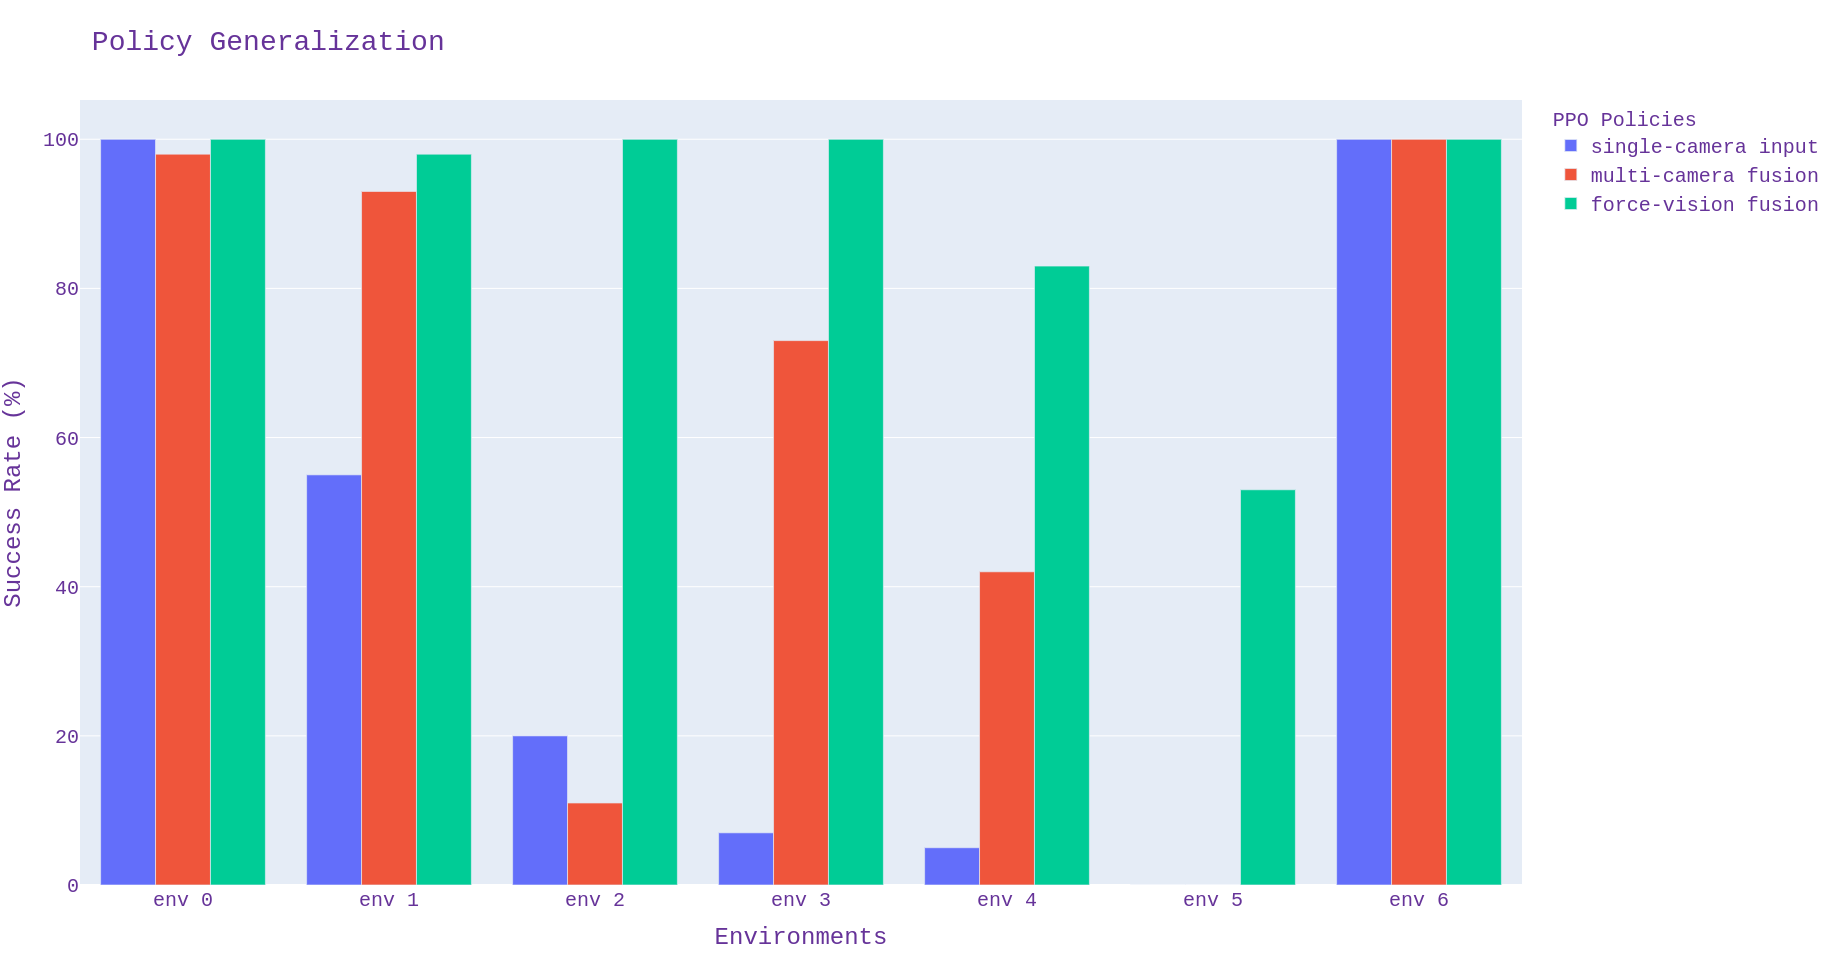
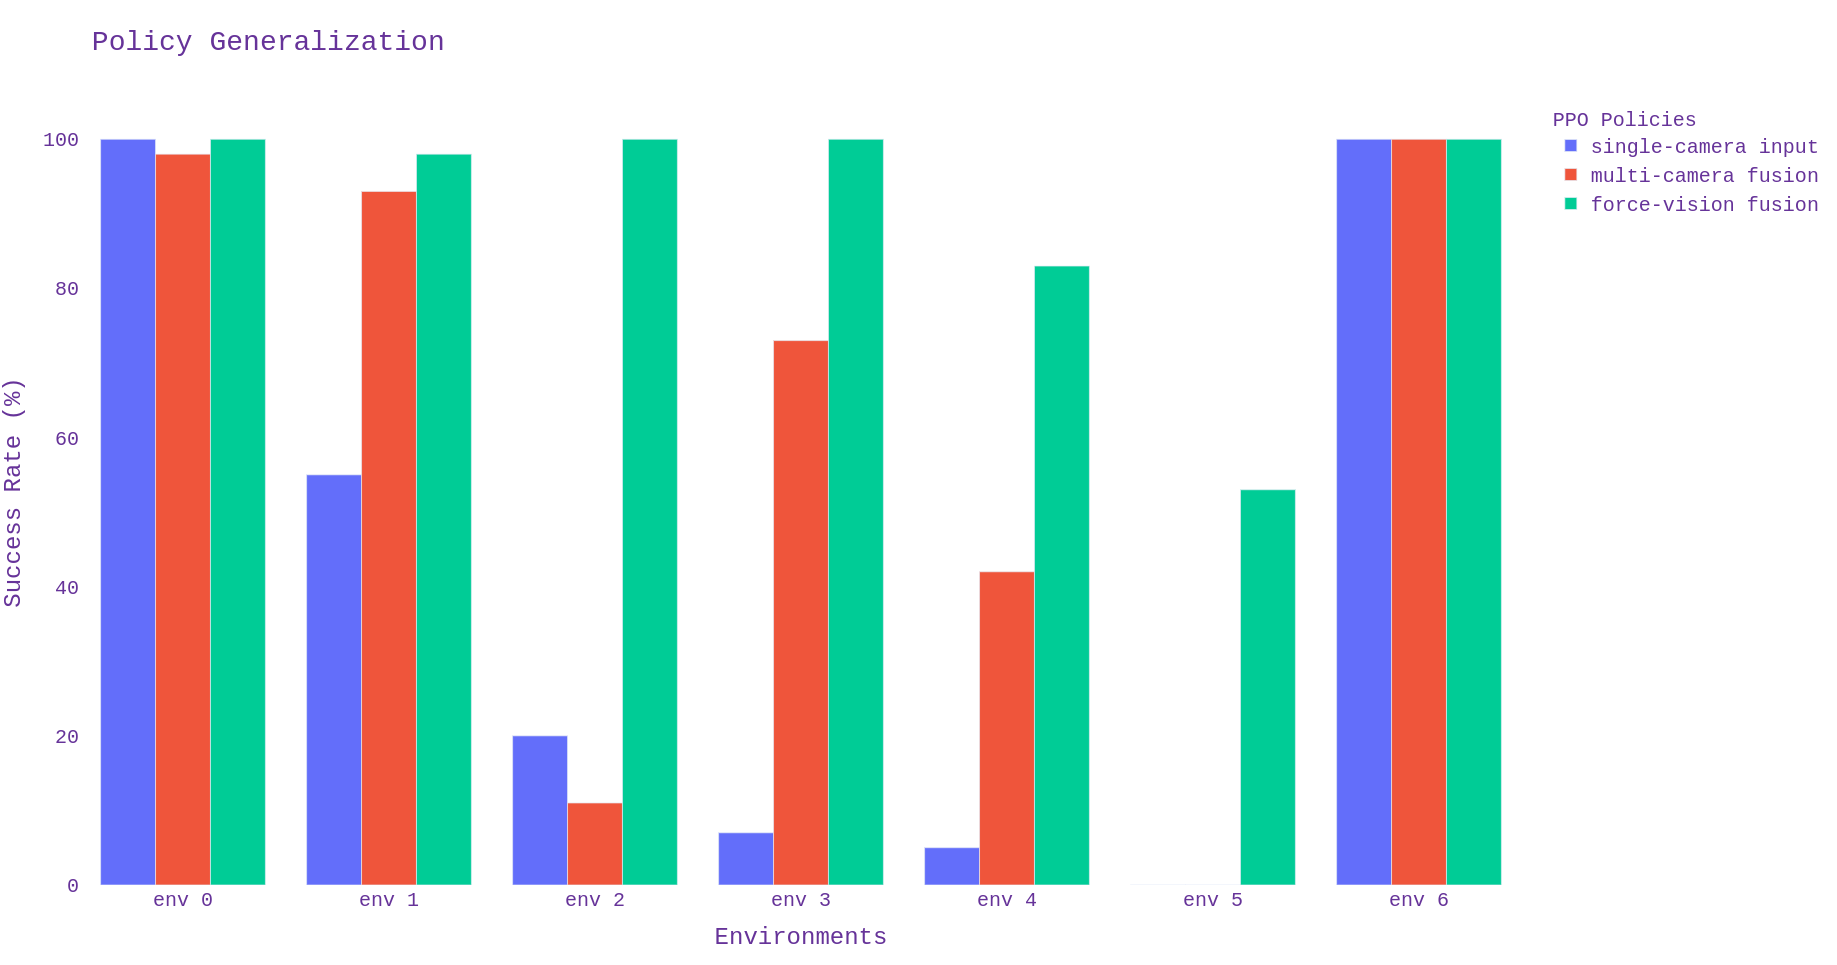
change the figure background

diff --git a/do_learning/scripts/task_pull/csv_plot.py b/do_learning/scripts/task_pull/csv_plot.py
@@ -48,7 +48,8 @@ def plot_training_performance():
             family="Courier New, monospace",
             size=20,
             color="RebeccaPurple"
-        )
+        ),
+        plot_bgcolor="rgb(255,255,255)"
     )
     fig.show()
 
@@ -71,7 +72,8 @@ def plot_generalize_capability():
             family="Courier New, monospace",
             size=20,
             color="RebeccaPurple"
-        )
+        ),
+        plot_bgcolor="rgb(255,255,255)"
     )
     fig.show()
 
